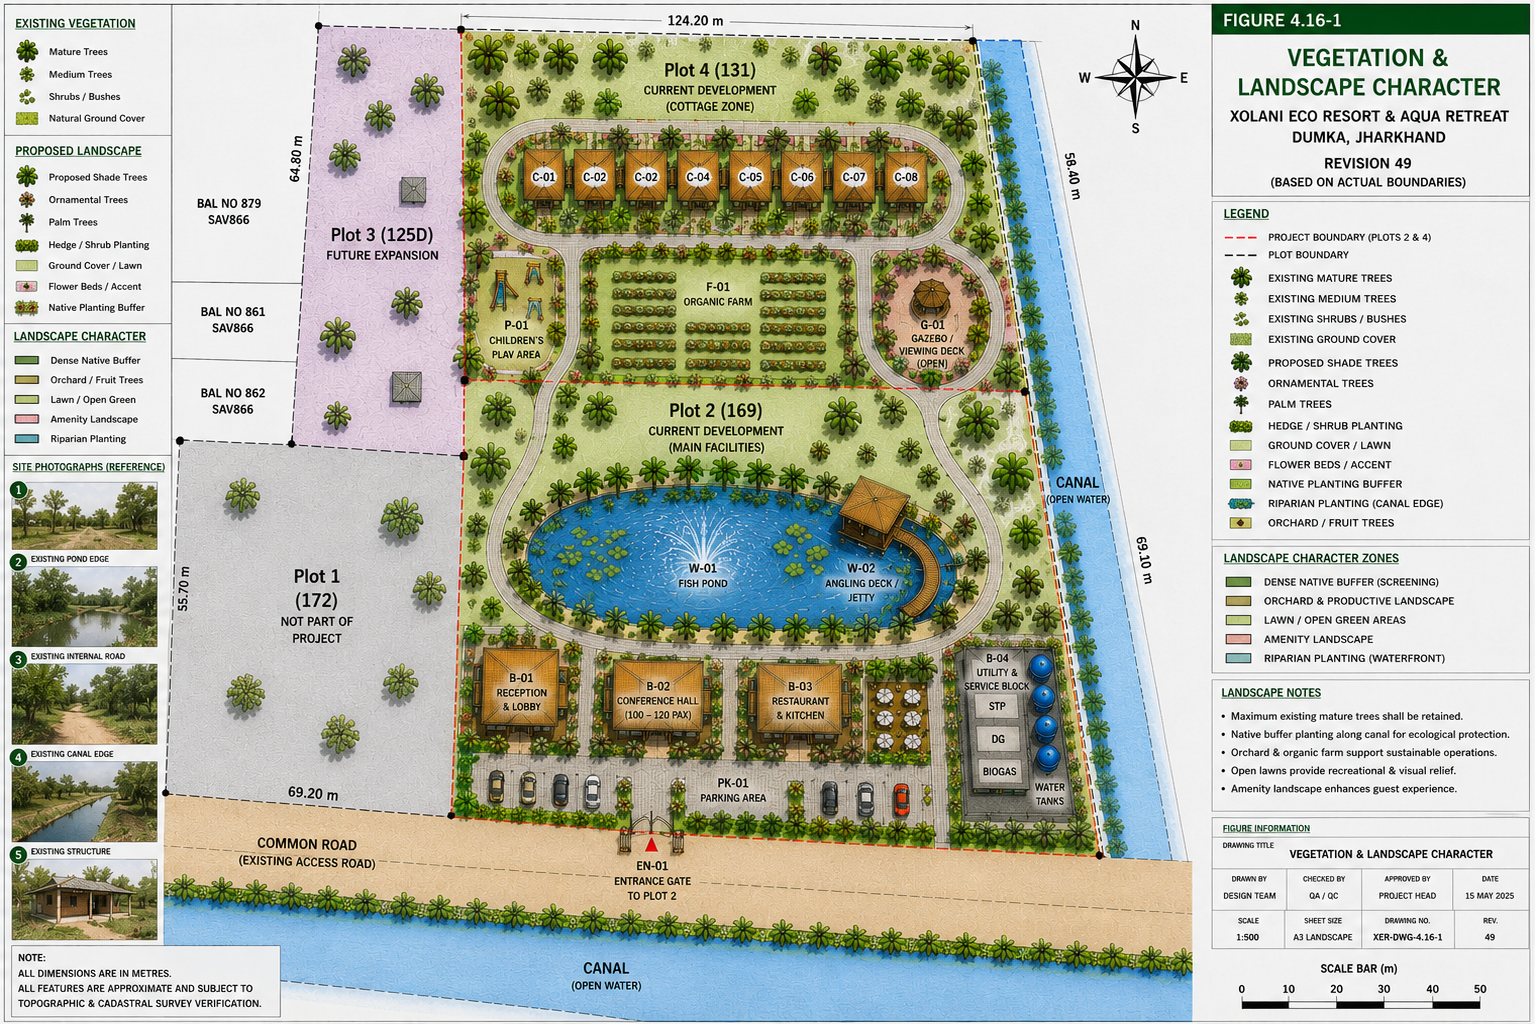
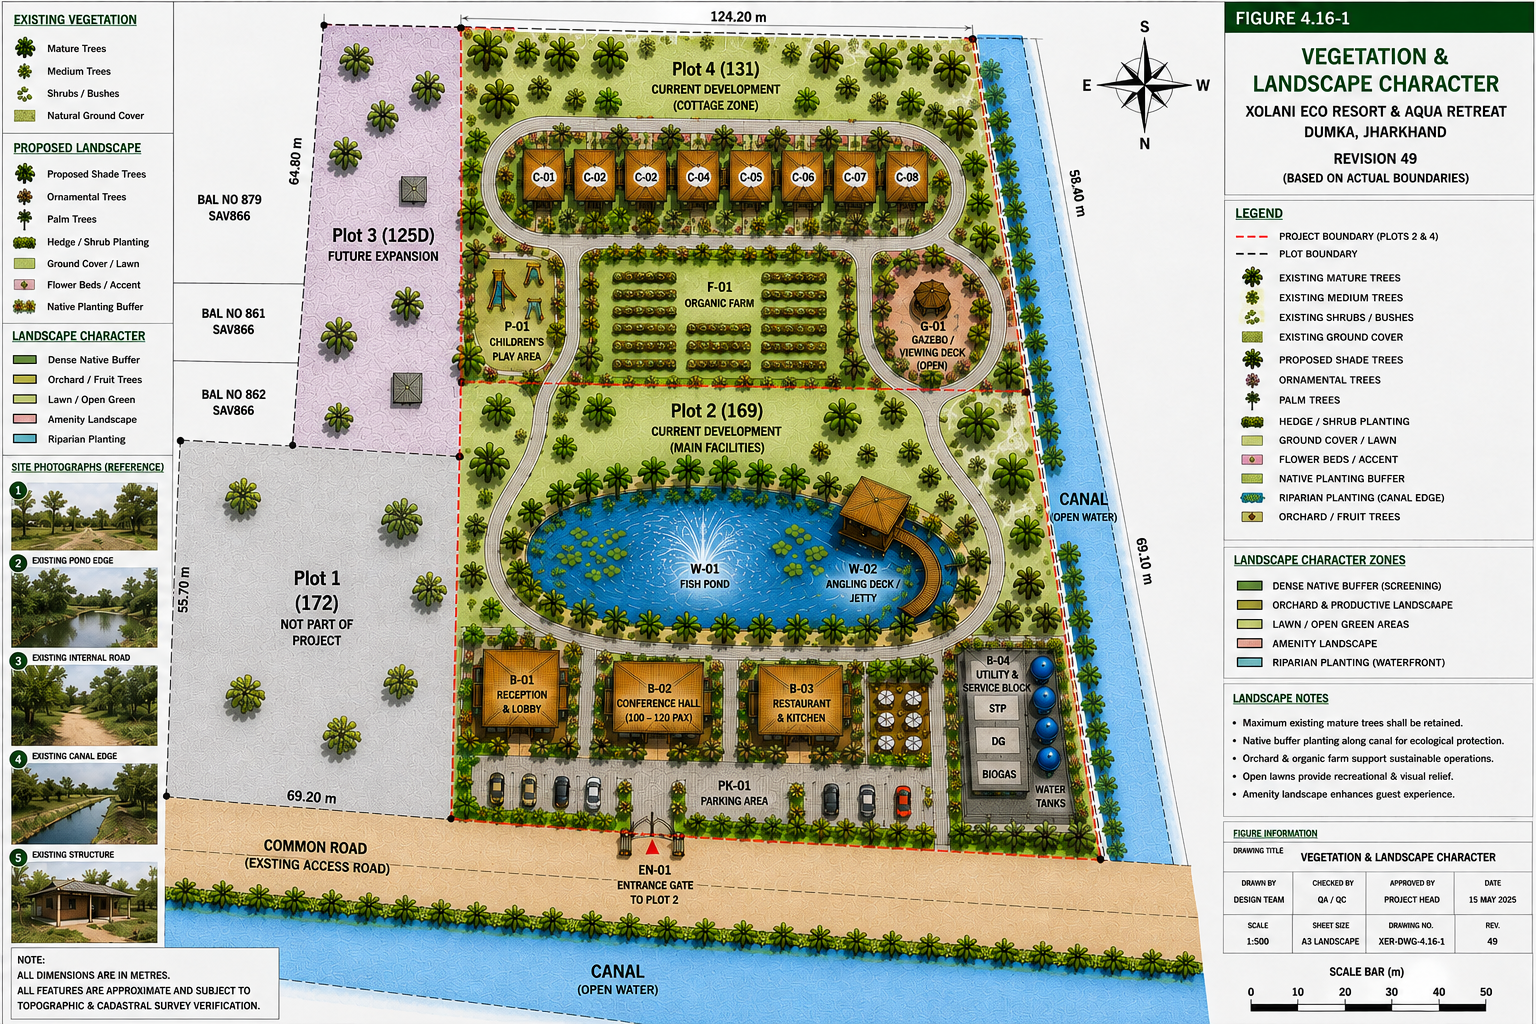
Approve AST-000019 Vegetation and Landscape Character and DAR-019

diff --git a/engineering/DAR/DAR-019/DAR-019_Drawing_Analysis_Report.md b/engineering/DAR/DAR-019/DAR-019_Drawing_Analysis_Report.md
@@ -1,0 +1,43 @@
+# DAR-019 - Drawing Analysis Report
+
+## Controlled Asset
+
+- Asset ID: AST-000019
+- Original Filename: ChatGPT Image Jul 17, 2026, 05_22_18 PM.png
+- Repository Path: drawings/Current/ChatGPT Image Jul 17, 2026, 05_22_18 PM.png
+- DAR Reference: DAR-019
+
+## Drawing Identity
+
+- Figure: Figure 4.16-1
+- Title: VEGETATION & LANDSCAPE CHARACTER
+- Drawing Number: XER-DWG-4.16-1
+- Revision: 49
+- Date: 15 MAY 2025
+- Sheet: A3 Landscape
+- Scale: 1:500
+
+## Comparison Baseline
+
+AST-000018 / Figure 4.16-1 was used as the approved comparison baseline.
+
+The substantive site, landscape, plot, building, road, canal and annotation content was found consistent with the approved baseline.
+
+## Approved Correction
+
+The compass was corrected only.
+
+The approved project orientation is:
+
+- North - down
+- South - up
+- East - left
+- West - right
+
+No other drawing content was intentionally changed.
+
+## Approved Status
+
+APPROVED
+
+AST-000019 is controlled as the Vegetation & Landscape Character drawing, Figure 4.16-1.
